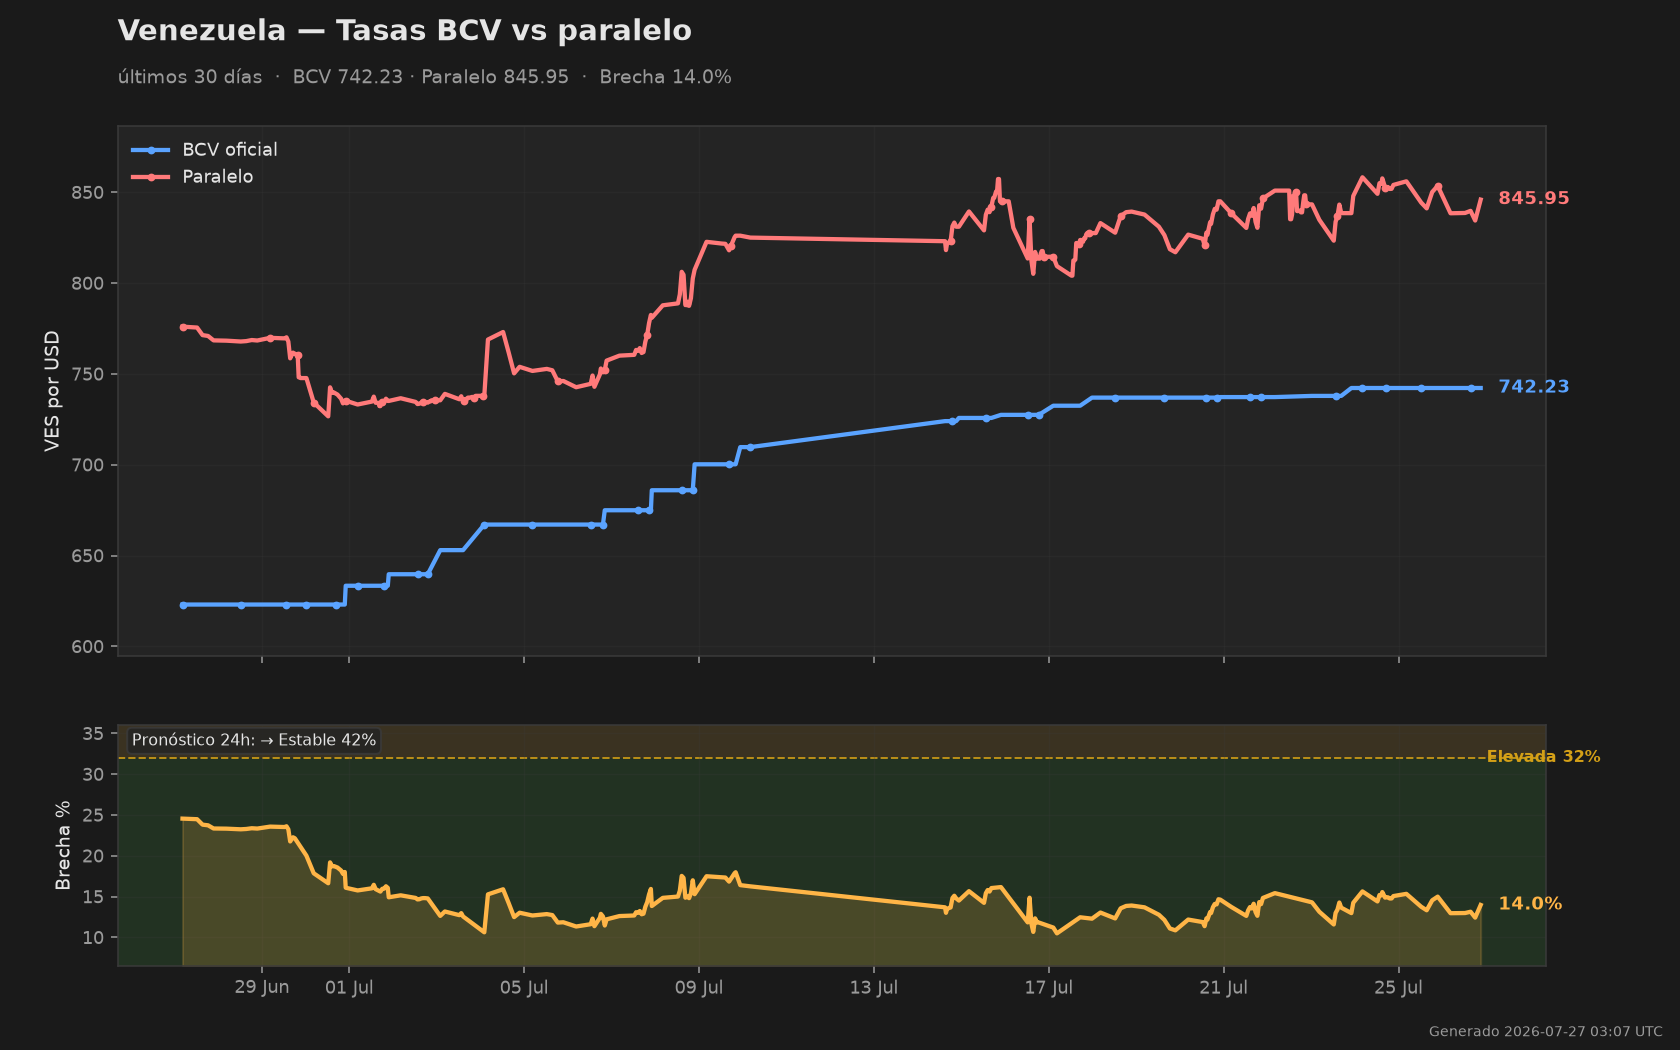
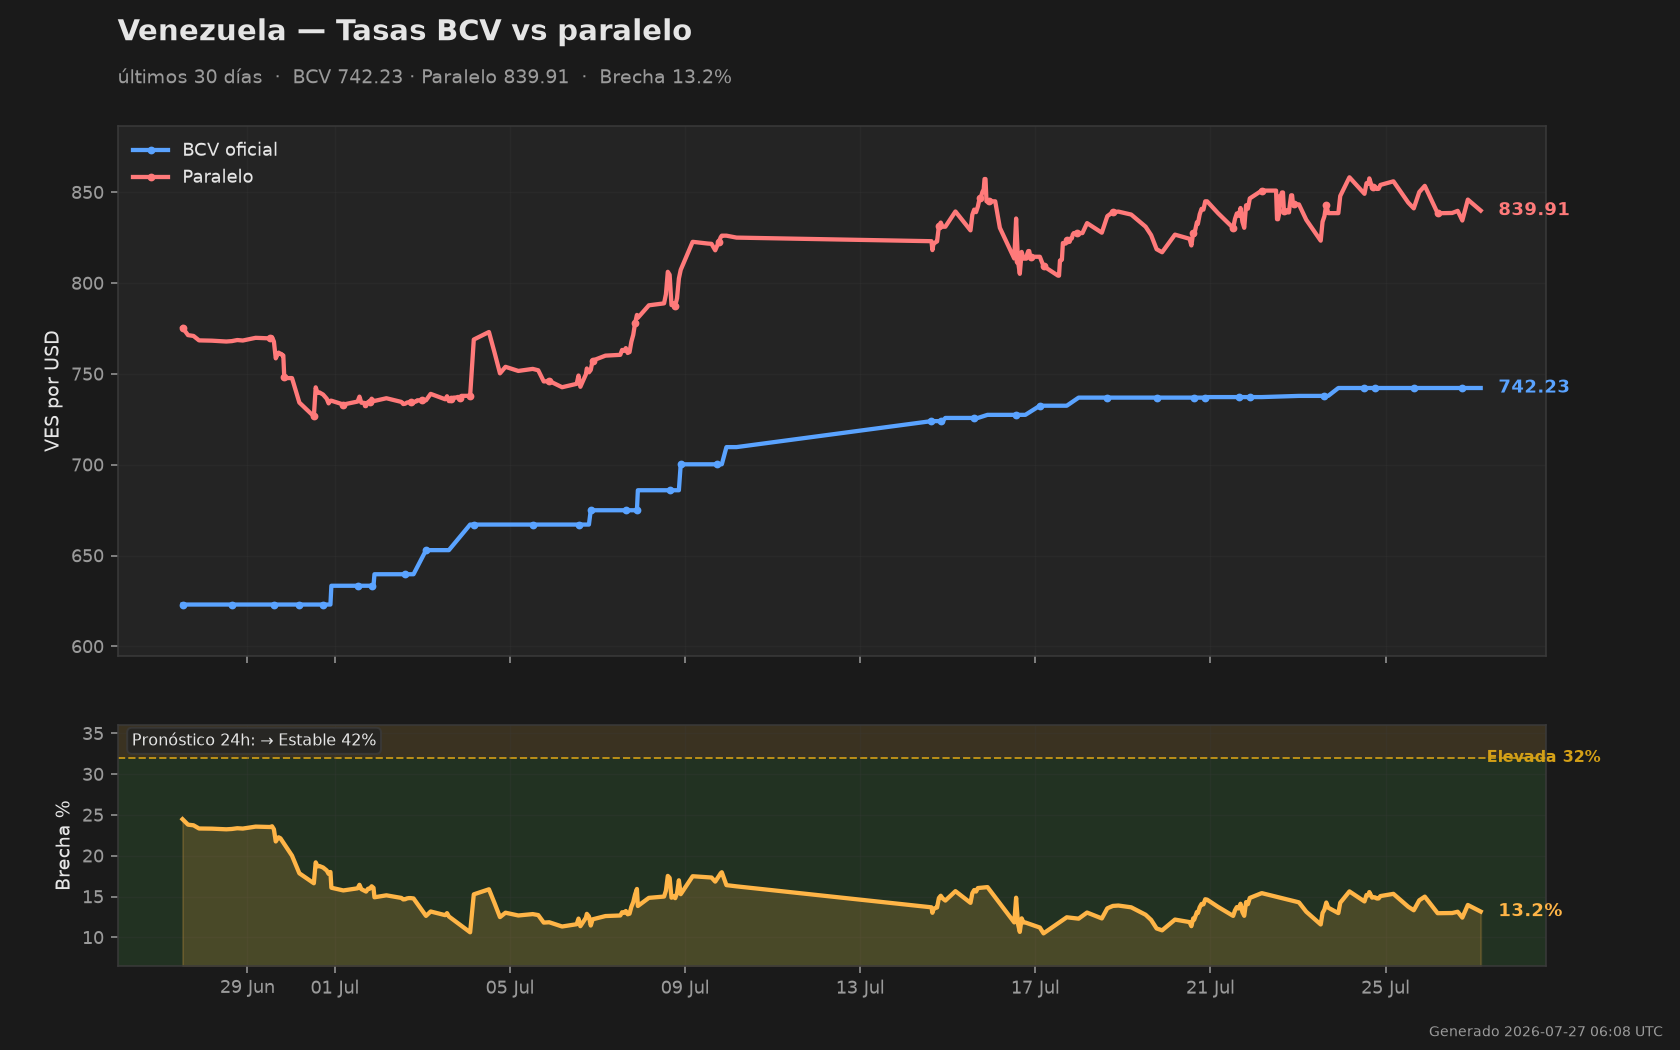
Dashboard update 2026-07-27 06:08 UTC

diff --git a/README.md b/README.md
@@ -11,11 +11,11 @@
 | Metric · Métrica | Value · Valor |
 |---|---|
 | BCV Oficial | **742.23** VES/USD |
-| Paralelo | **845.95** VES/USD |
-| Brecha · Spread | **14.0%** |
-| Binance P2P USDT/VES | **859.42** VES/USDT (+1.6% vs paralelo) |
+| Paralelo | **839.91** VES/USD |
+| Brecha · Spread | **13.2%** |
+| Binance P2P USDT/VES | **859.36** VES/USDT (+2.3% vs paralelo) |
 | **Pronóstico 24h · 24h Forecast** | **↑ Ensanchando · Widening (48%)** |
-| Actualizado · Updated | 2026-07-26 21:05 UTC |
+| Actualizado · Updated | 2026-07-27 04:08 UTC |
 
 ![Venezuela BCV vs parallel rate — last 30 days](data/chart.png)
 
